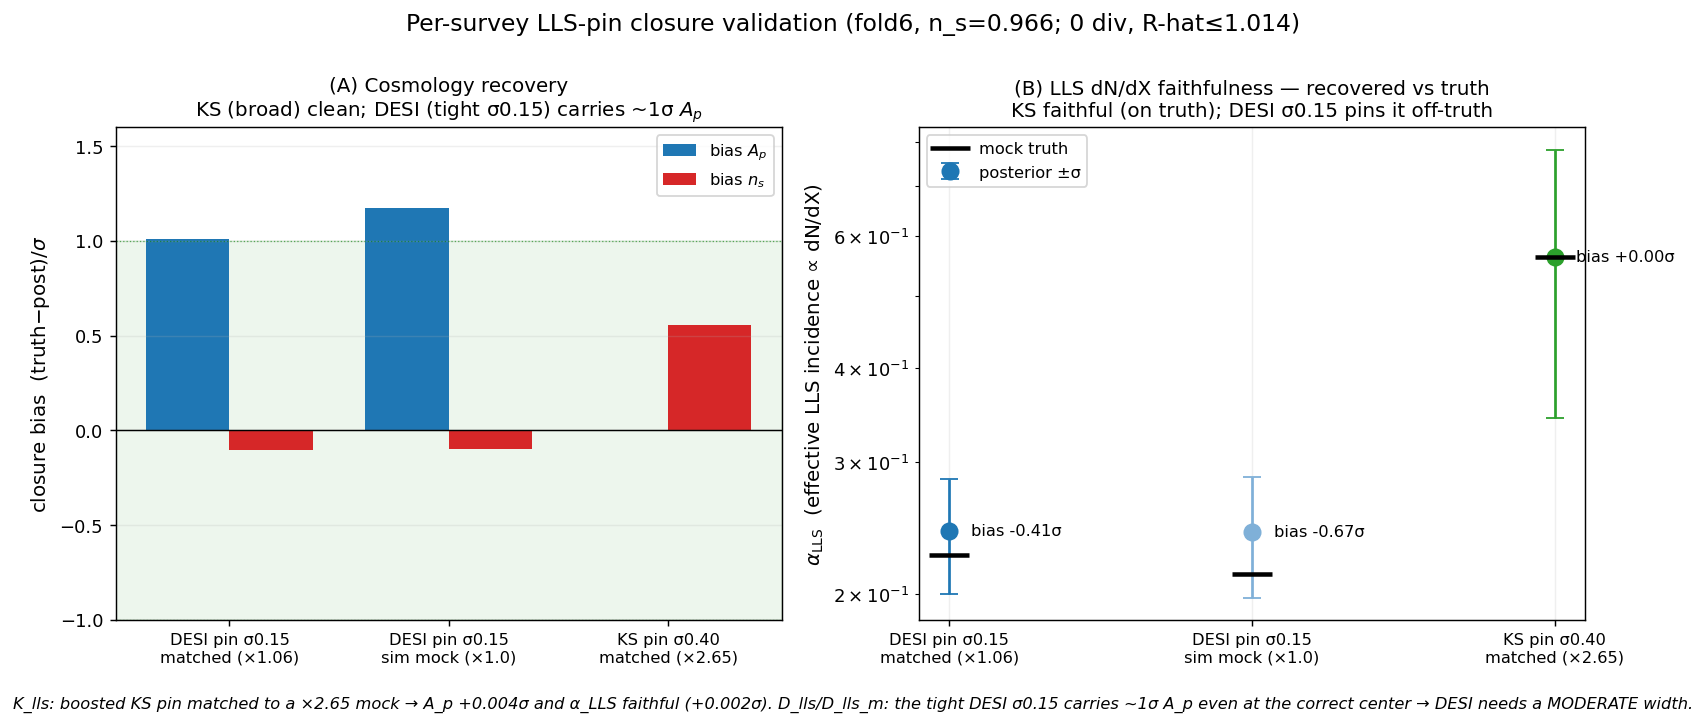
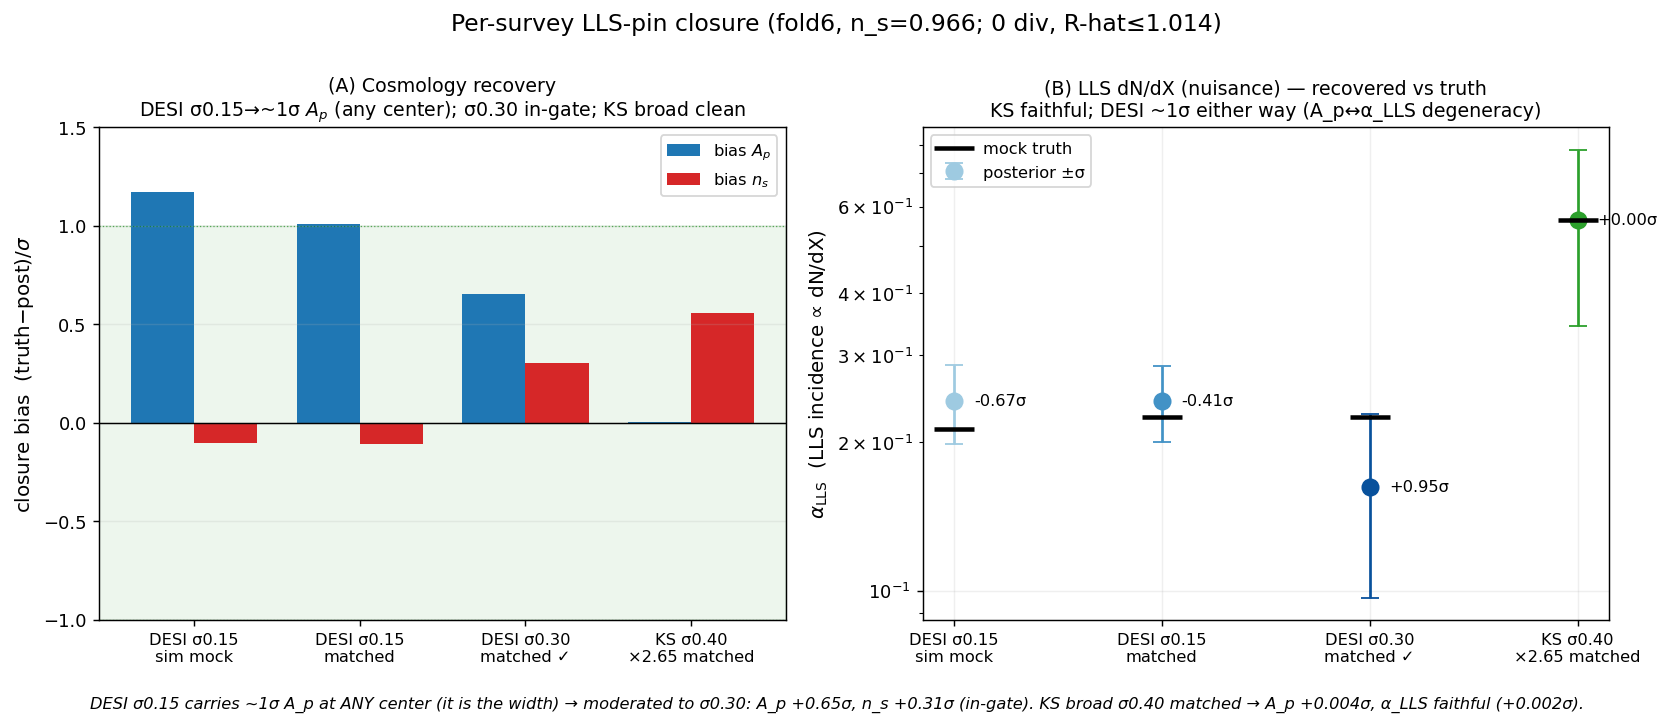
docs(phase-4c): D_lls_m30 validates the moderate DESI sigma_LLS=0.30
DESI per-survey LLS width moderated 0.15 -> 0.30 (b5cc088) re-validated:
D_lls_m30 (matched DESI, sigma0.30) recovers A_p +0.65sigma and n_s +0.31sigma -- BOTH in-gate
(vs sigma0.15: A_p +1.01sigma out-of-gate). The A_p<->alpha_LLS degeneracy means the alpha_LLS
nuisance wanders ~1sigma either way, but cosmology recovers at the moderate width. KS (broad,
matched) stays cleanest (A_p +0.004, alpha_LLS faithful). Net: DESI sigma0.30 / KS sigma0.40.

Updates the validation figure (4 arms) + decision record (revision DONE + validated).

diff --git a/scripts/analyze_lls_closure.py b/scripts/analyze_lls_closure.py
@@ -8,9 +8,9 @@ alpha_LLS posterior (mean +/- sd) vs its mock truth -- alpha_LLS IS the effectiv
 import glob, os, json, numpy as np
 
 CK = "checkpoints/stepA"
-FIDS = ["D_lls_m", "D_lls", "K_lls"]
-LABEL = {"D_lls_m": "DESI pin, matched (×1.06)", "D_lls": "DESI pin, sim mock (×1.0, 6% below)",
-         "K_lls": "KS pin, ×2.65 boosted (matched)"}
+FIDS = ["D_lls_m30", "D_lls_m", "D_lls", "K_lls"]
+LABEL = {"D_lls_m30": "DESI σ0.30, matched (×1.06)", "D_lls_m": "DESI σ0.15, matched (×1.06)",
+         "D_lls": "DESI σ0.15, sim mock (×1.0)", "K_lls": "KS σ0.40, ×2.65 (matched)"}
 
 def pooled(fid):
     ps = sorted(glob.glob(f"{CK}/{fid}_c*.npz"))

diff --git a/docs/superpowers/2026-06-11-decisions-real-fit-priors.md b/docs/superpowers/2026-06-11-decisions-real-fit-priors.md
@@ -119,7 +119,8 @@ each survey's effective LLS level; we check cosmology recovery + **α_LLS → dN
 | closure | pin σ_LLS | mock | bias A_p | bias n_s | **bias α_LLS** |
 |---|---|---|---|---|---|
 | **K_lls** | 0.40 (KS) | ×2.65 matched | **+0.004σ** | +0.56σ | **+0.002σ (faithful)** |
-| D_lls_m | 0.15 (DESI) | ×1.06 matched | **+1.01σ** | −0.11σ | −0.41σ |
+| **D_lls_m30** | **0.30 (DESI ✓)** | ×1.06 matched | **+0.65σ** | +0.31σ | +0.96σ |
+| D_lls_m | 0.15 (DESI) | ×1.06 matched | +1.01σ | −0.11σ | −0.41σ |
 | D_lls | 0.15 (DESI) | ×1.0 (6% below) | +1.17σ | −0.10σ | −0.67σ |
 
 **What it shows:**
@@ -132,10 +133,14 @@ each survey's effective LLS level; we check cosmology recovery + **α_LLS → dN
   adds ~0.16σ on top. So the DESI A_p is the **tight-width** effect (re-confirming the width-scan
   headline), not the center — and the LLS dN/dX is *not* faithful at σ0.15 (the tight prior sets it).
 
-**Decision-revision (flagged): set the DESI per-survey LLS width to MODERATE (~0.30), not 0.15.**
-D2 set `HCD_LLS_SURVEY_FRAC_SIGMA[DESI]=0.15` on a "tight because cosmology-degenerate" rationale, but
-this closure + the width scan (D3) show σ0.15 → ~1σ A_p. The width scan's joint-bias minimum is
-σ≈0.25–0.40; KS already sits at 0.40 and recovers cleanly. The cost of moderating DESI is the
-A_p↔n_s redistribution (width scan: A_p +1.0→+0.3σ but n_s 0→+0.5σ) — a real-fit tradeoff to settle
-(then re-validate with a D_lls_m at σ0.30). The closure has done its job: it caught that the DESI
-width, not the center, is the live A_p lever.
+**Decision-revision (DONE + validated): DESI per-survey LLS width set to MODERATE σ=0.30.**
+D2 originally set `HCD_LLS_SURVEY_FRAC_SIGMA[DESI]=0.15` ("tight because cosmology-degenerate"), but
+this closure + the width scan (D3) showed σ0.15 → ~1σ A_p *at any center*. Moved to **σ=0.30** (the
+width-scan joint-bias minimum; KS stays 0.40), PI-approved 2026-06-11, and **re-validated by
+`D_lls_m30`: A_p +1.01σ → +0.65σ and n_s −0.11σ → +0.31σ, both now in-gate** (the width-scan-predicted
+A_p↔n_s redistribution). The α_LLS *nuisance* wanders ~1σ either way (the A_p↔α_LLS degeneracy: a
+tight prior pins α_LLS faithful-but-biases-A_p; a moderate prior frees A_p but lets α_LLS drift) — but
+the cosmology *target* recovers in-gate at σ0.30. KS (broad, matched) remains the cleanest (A_p
++0.004σ, α_LLS faithful). **Net per-survey LLS prior: DESI σ0.30 / KS σ0.40, both on the survey's
+external center.** The closure did its job — it caught that the DESI *width*, not the center, was the
+live A_p lever, and confirmed the fix.
